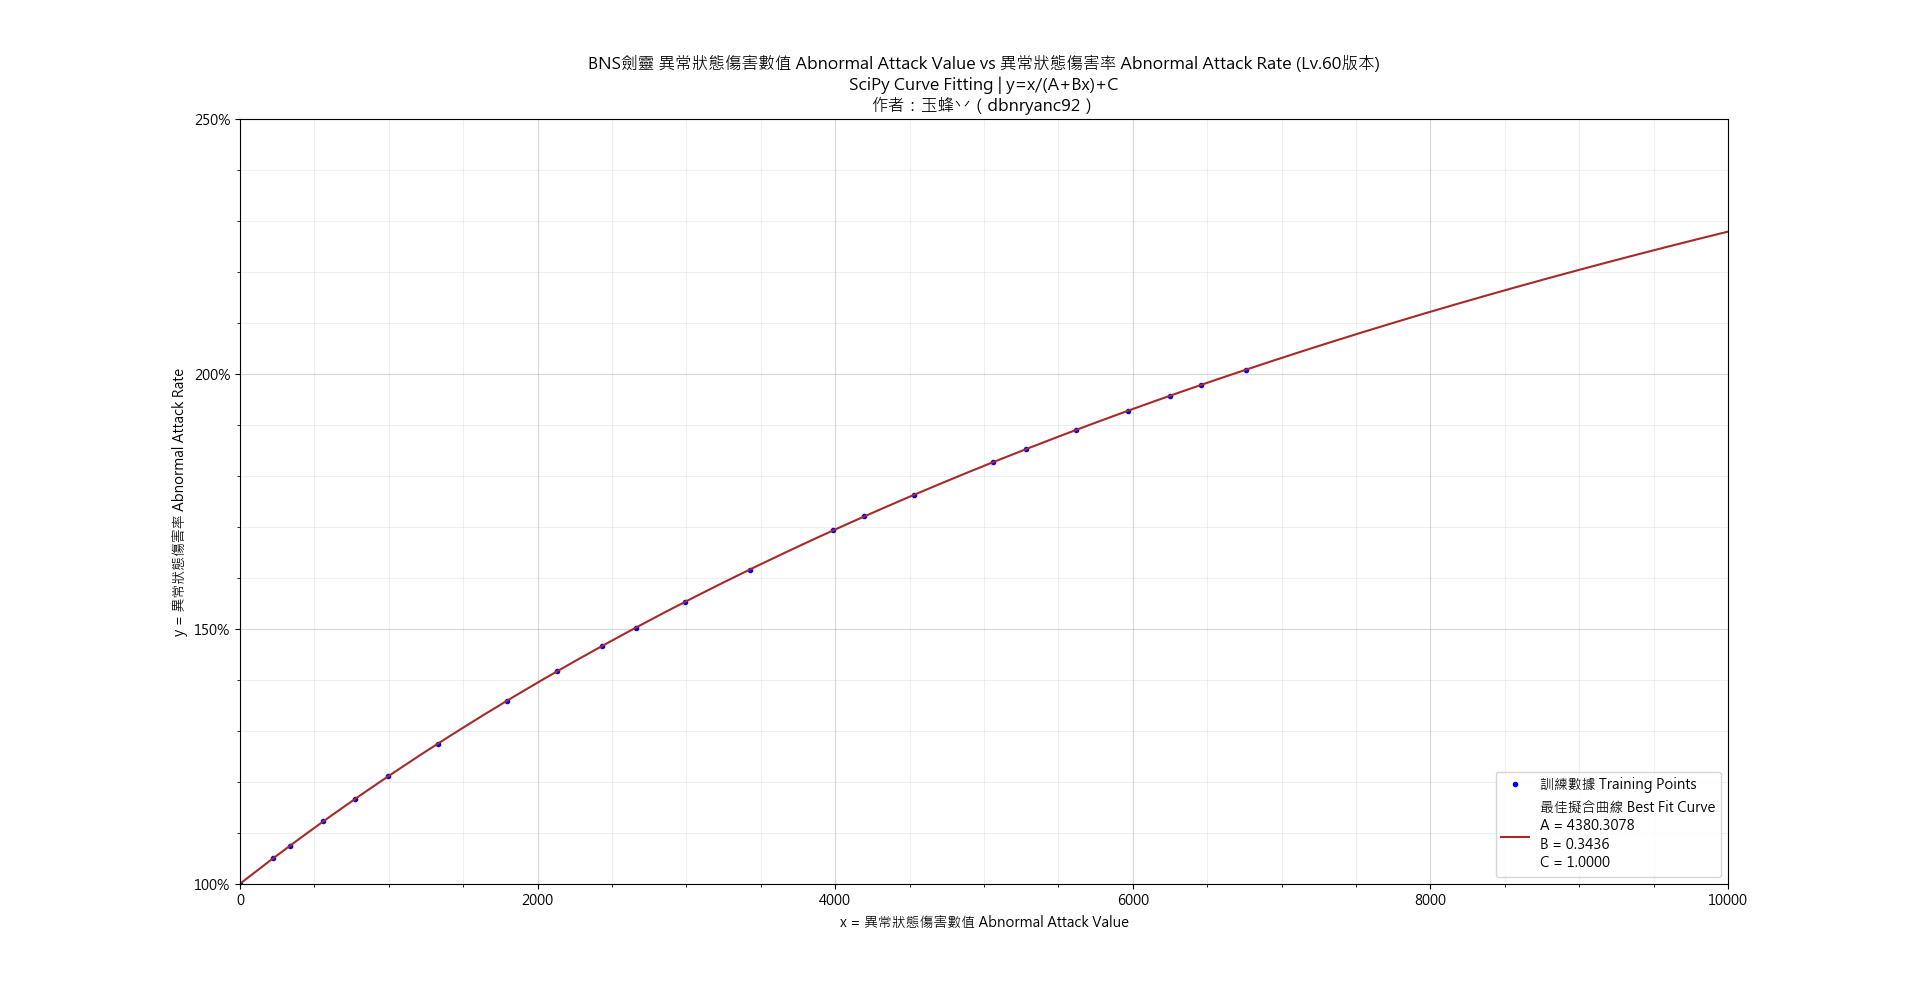
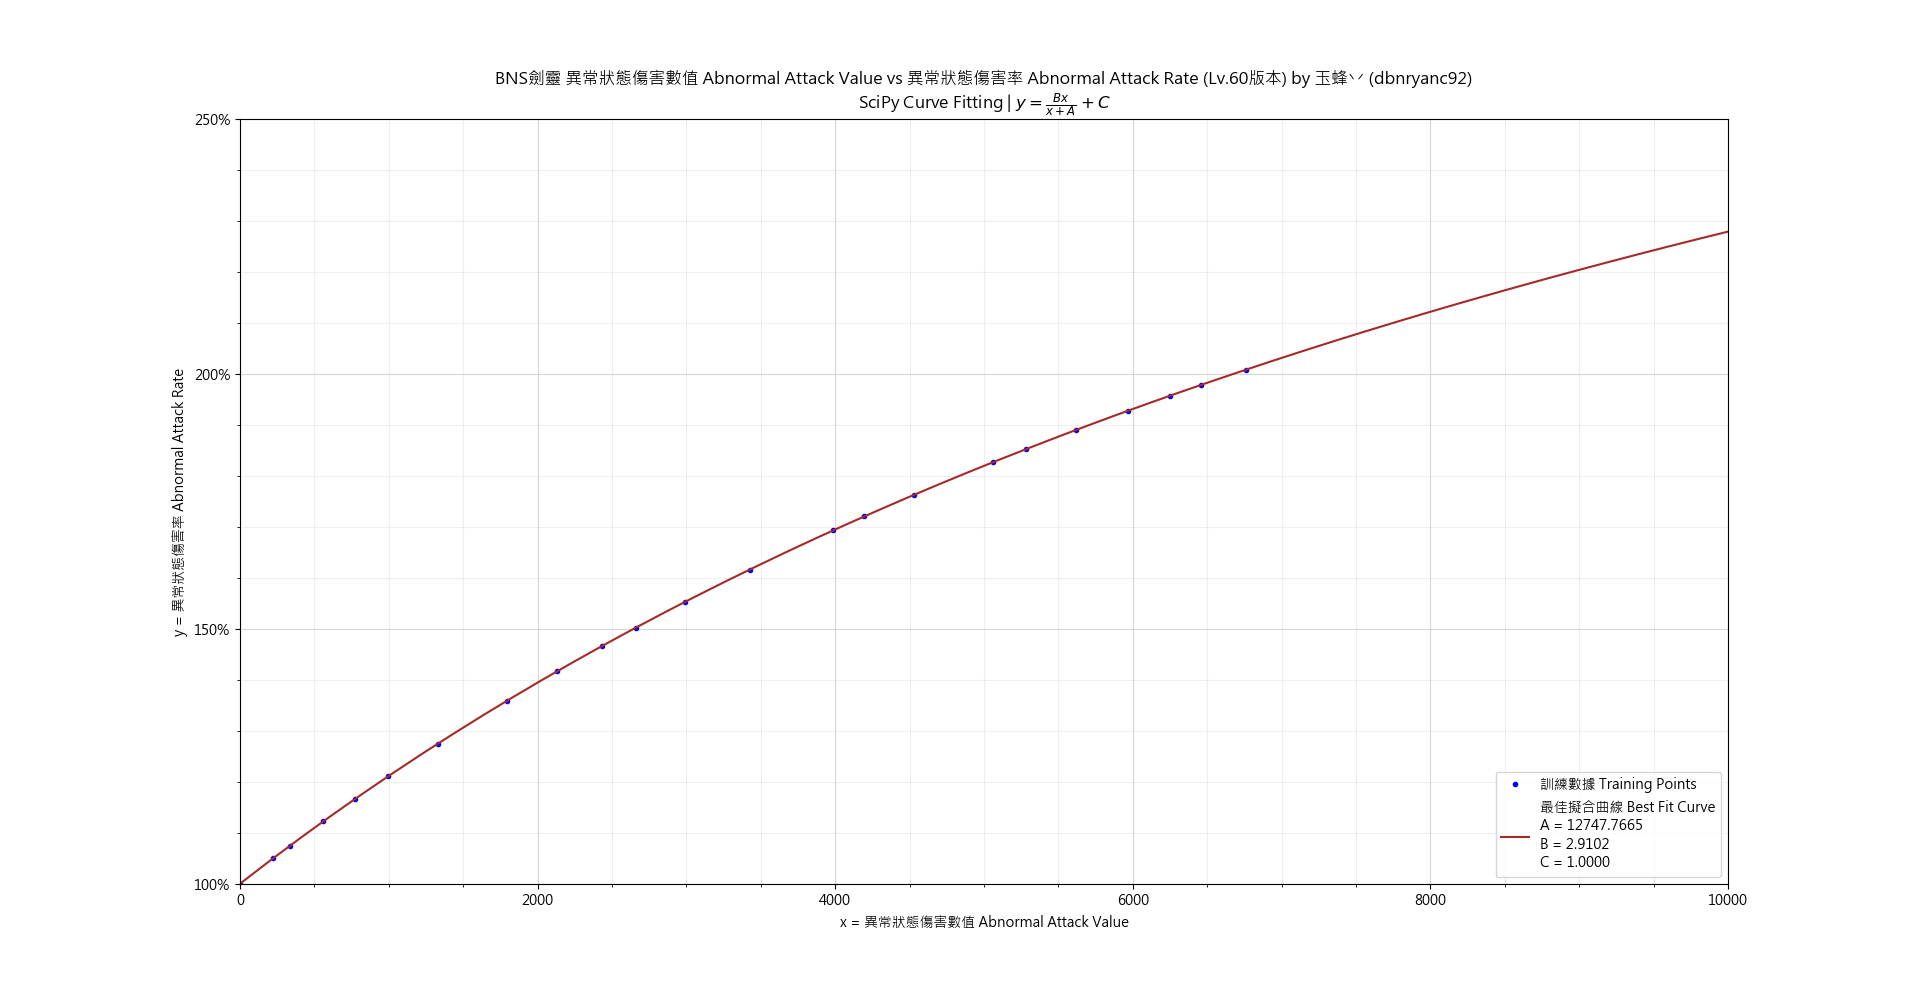
Add lv55 data & comparison

Changed region(s): [[0.25, 0.0312, 0.75, 0.1249], [0.8125, 0.8117, 0.8438, 0.8741]]

diff --git a/bnscurvefit_crit_compare.py b/bnscurvefit_crit_compare.py
@@ -1,0 +1,57 @@
+# BNS Attribute Curve Fitting
+# Author: dbnryanc92 (玉蜂丷)
+# Attribute: Critical (Compare)
+
+import os
+import numpy as np
+import pandas as pd
+import matplotlib.pyplot as plt
+from matplotlib.ticker import PercentFormatter
+from scipy.optimize import curve_fit
+
+# Allows plt to show UTF-8 chinese characters
+plt.rcParams['font.sans-serif'] = ['Microsoft JhengHei'] 
+plt.rcParams['axes.unicode_minus'] = False
+
+# Initialiation
+dirname = os.path.dirname(__file__)
+fig = plt.figure()
+ax = fig.add_subplot()
+
+# Setup comparison
+compare_item = ['55', '60']
+colors = ['yellowgreen', 'teal']
+
+for count, lv in enumerate(compare_item):
+    df = pd.read_csv(dirname + '/Raw Data/rawdata_crit_lv' + lv + '.csv', comment='#')
+    df = df.rename(columns={'critValue': 'value', 'critRate': 'rate'})
+
+    # Define a model function
+    def model_func(x, a, b, c):
+        return b * x / (x + a) + c
+
+    # Fits the function
+    popt, pcov = curve_fit(model_func, df['value'], df['rate'])
+    print("Lv. " + lv + ": a = {0:.9f}, b = {1:.9f}, c = {2:.9f}".format(*popt))
+
+    #Plot the result
+    
+    #ax.plot(df['value'], df['rate'], '.b', label='訓練數據 Training Points')
+    x_pred = np.linspace(0, 30000)
+    ax.plot(x_pred, model_func(x_pred, *popt), '-', color=colors[count], label='Lv. %s 級'%(lv))
+
+ax.set_title('BNS劍靈 暴擊數值 Crit Value vs 暴擊率 Crit Rate (版本比較) by 玉蜂丷 (dbnryanc92)\nSciPy Curve Fitting | ' +  r'$y=\frac{Bx}{x+A}+C$')
+ax.set_xlabel('x = 暴擊數值 Crit Value')
+ax.set_ylabel('y = 暴擊率 Crit Rate')
+ax.legend(loc='lower right')
+
+ax.set_xlim(left=0, right=30000)
+ax.set_ylim(bottom=0, top=1)
+ax.set_xticks(np.arange(0, 30001, 5000))
+ax.set_xticks(np.arange(0, 30001, 1000), minor=True)
+ax.set_yticks(np.arange(0, 1.001, 0.2))
+ax.set_yticks(np.arange(0, 1.001, 0.05), minor=True)
+ax.yaxis.set_major_formatter(PercentFormatter(1))
+ax.grid(which='minor', alpha=0.2)
+ax.grid(which='major', alpha=0.5)
+plt.show()

diff --git a/bnscurvefit_abnormal_lv60.py b/bnscurvefit_abnormal_lv60.py
@@ -20,7 +20,7 @@ df = df.rename(columns={'abnormalValue': 'value', 'abnormalRate': 'rate'})
 
 # Define a model function
 def model_func(x, a, b, c):
-    return x / (a + b * x) + c
+    return b * x / (x + a) + c
 
 # Fits the function
 popt, pcov = curve_fit(model_func, df['value'], df['rate'])
@@ -33,7 +33,7 @@ ax.plot(df['value'], df['rate'], '.b', label='訓練數據 Training Points')
 x_pred = np.linspace(0, 10000)
 ax.plot(x_pred, model_func(x_pred, *popt), '-', color='brown', label='最佳擬合曲線 Best Fit Curve\nA = %.4f\nB = %.4f\nC = %.4f'%(popt[0],popt[1],popt[2]))
 
-ax.set_title('BNS劍靈 異常狀態傷害數值 Abnormal Attack Value vs 異常狀態傷害率 Abnormal Attack Rate (Lv.60版本)\nSciPy Curve Fitting | y=x/(A+Bx)+C\n作者：玉蜂丷（dbnryanc92）')
+ax.set_title('BNS劍靈 異常狀態傷害數值 Abnormal Attack Value vs 異常狀態傷害率 Abnormal Attack Rate (Lv.60版本) by 玉蜂丷 (dbnryanc92)\nSciPy Curve Fitting | ' +  r'$y=\frac{Bx}{x+A}+C$')
 ax.set_xlabel('x = 異常狀態傷害數值 Abnormal Attack Value')
 ax.set_ylabel('y = 異常狀態傷害率 Abnormal Attack Rate')
 ax.legend(loc='lower right')

diff --git a/bnscurvefit_attackhit_lv60.py b/bnscurvefit_attackhit_lv60.py
@@ -20,7 +20,7 @@ df = df.rename(columns={'attackhitValue': 'value', 'attackhitRate': 'rate'})
 
 # Define a model function
 def model_func(x, a, b, c):
-    return x / (a + b * x) + c
+    return b * x / (x + a) + c
 
 # Fits the function
 popt, pcov = curve_fit(model_func, df['value'], df['rate'])
@@ -33,7 +33,7 @@ ax.plot(df['value'], df['rate'], '.b', label='訓練數據 Training Points')
 x_pred = np.linspace(0, 15000)
 ax.plot(x_pred, model_func(x_pred, *popt), '-', color='brown', label='最佳擬合曲線 Best Fit Curve\nA = %.4f\nB = %.4f\nC = %.4f'%(popt[0],popt[1],popt[2]))
 
-ax.set_title('BNS劍靈 功力數值 Attack Hit Value vs 功力傷害率 Attack Hit Rate (Lv.60版本)\nSciPy Curve Fitting | y=x/(A+Bx)+C\n作者：玉蜂丷（dbnryanc92）')
+ax.set_title('BNS劍靈 功力數值 Attack Hit Value vs 功力傷害率 Attack Hit Rate (Lv.60版本) by 玉蜂丷 (dbnryanc92)\nSciPy Curve Fitting | ' +  r'$y=\frac{Bx}{x+A}+C$')
 ax.set_xlabel('x = 功力數值 Attack Hit Value')
 ax.set_ylabel('y = 功力傷害率 Attack Hit Rate')
 ax.legend(loc='lower right')

diff --git a/bnscurvefit_critdmg_lv60.py b/bnscurvefit_critdmg_lv60.py
@@ -20,7 +20,7 @@ df = df.rename(columns={'critdmgValue': 'value', 'critdmgRate': 'rate'})
 
 # Define a model function
 def model_func(x, a, b, c):
-    return x / (a + b * x) + c
+    return b * x / (x + a) + c
 
 # Fits the function
 popt, pcov = curve_fit(model_func, df['value'], df['rate'])
@@ -33,7 +33,7 @@ ax.plot(df['value'], df['rate'], '.b', label='訓練數據 Training Points')
 x_pred = np.linspace(0, 25000)
 ax.plot(x_pred, model_func(x_pred, *popt), '-', color='brown', label='最佳擬合曲線 Best Fit Curve\nA = %.4f\nB = %.4f\nC = %.4f'%(popt[0],popt[1],popt[2]))
 
-ax.set_title('BNS劍靈 暴擊傷害數值 CritDmg Value vs 暴擊傷害率 CritDmg Rate (Lv.60版本)\nSciPy Curve Fitting | y=x/(A+Bx)+C\n作者：玉蜂丷（dbnryanc92）')
+ax.set_title('BNS劍靈 暴擊傷害數值 CritDmg Value vs 暴擊傷害率 CritDmg Rate (Lv.60版本) by 玉蜂丷 (dbnryanc92)\nSciPy Curve Fitting | ' +  r'$y=\frac{Bx}{x+A}+C$')
 ax.set_xlabel('x = 暴擊傷害數值 Crit Dmg. Value')
 ax.set_ylabel('y = 暴擊傷害率 Crit Dmg. Rate')
 ax.legend(loc='lower right')

diff --git a/bnscurvefit_crit_lv60.py b/bnscurvefit_crit_lv60.py
@@ -20,7 +20,7 @@ df = df.rename(columns={'critValue': 'value', 'critRate': 'rate'})
 
 # Define a model function
 def model_func(x, a, b, c):
-    return x / (a + b * x) + c
+    return b * x / (x + a) + c
 
 # Fits the function
 popt, pcov = curve_fit(model_func, df['value'], df['rate'])
@@ -33,7 +33,7 @@ ax.plot(df['value'], df['rate'], '.b', label='訓練數據 Training Points')
 x_pred = np.linspace(0, 30000)
 ax.plot(x_pred, model_func(x_pred, *popt), '-', color='brown', label='最佳擬合曲線 Best Fit Curve\nA = %.4f\nB = %.4f\nC = %.4f'%(popt[0],popt[1],popt[2]))
 
-ax.set_title('BNS劍靈 暴擊數值 Crit Value vs 暴擊率 Crit Rate (Lv.60版本)\nSciPy Curve Fitting | y=x/(A+Bx)+C\n作者：玉蜂丷（dbnryanc92）')
+ax.set_title('BNS劍靈 暴擊數值 Crit Value vs 暴擊率 Crit Rate (Lv.60版本) by 玉蜂丷 (dbnryanc92)\nSciPy Curve Fitting | ' +  r'$y=\frac{Bx}{x+A}+C$')
 ax.set_xlabel('x = 暴擊數值 Crit Value')
 ax.set_ylabel('y = 暴擊率 Crit Rate')
 ax.legend(loc='lower right')
